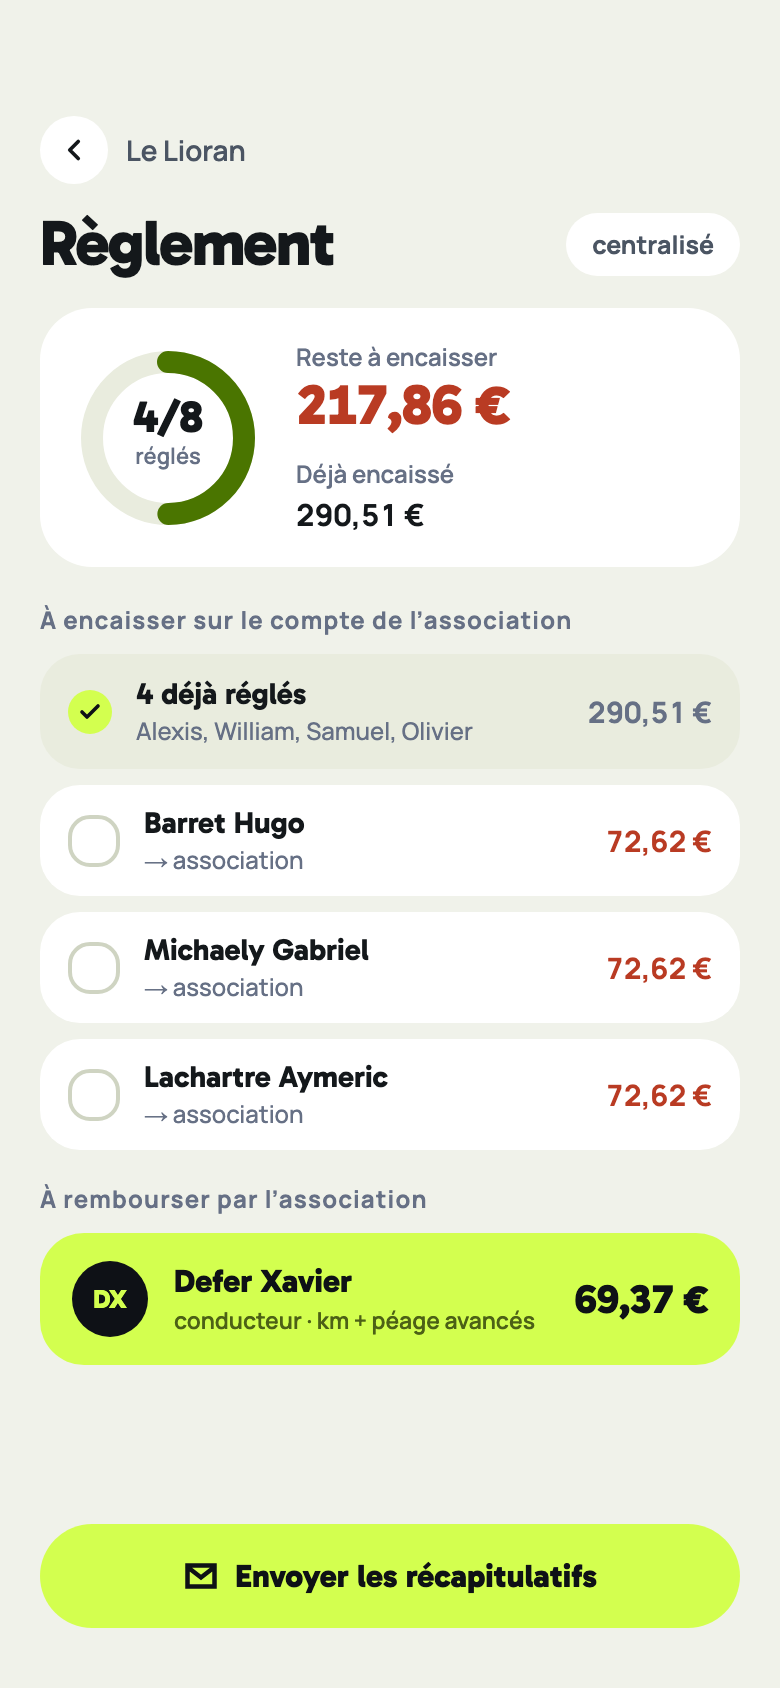
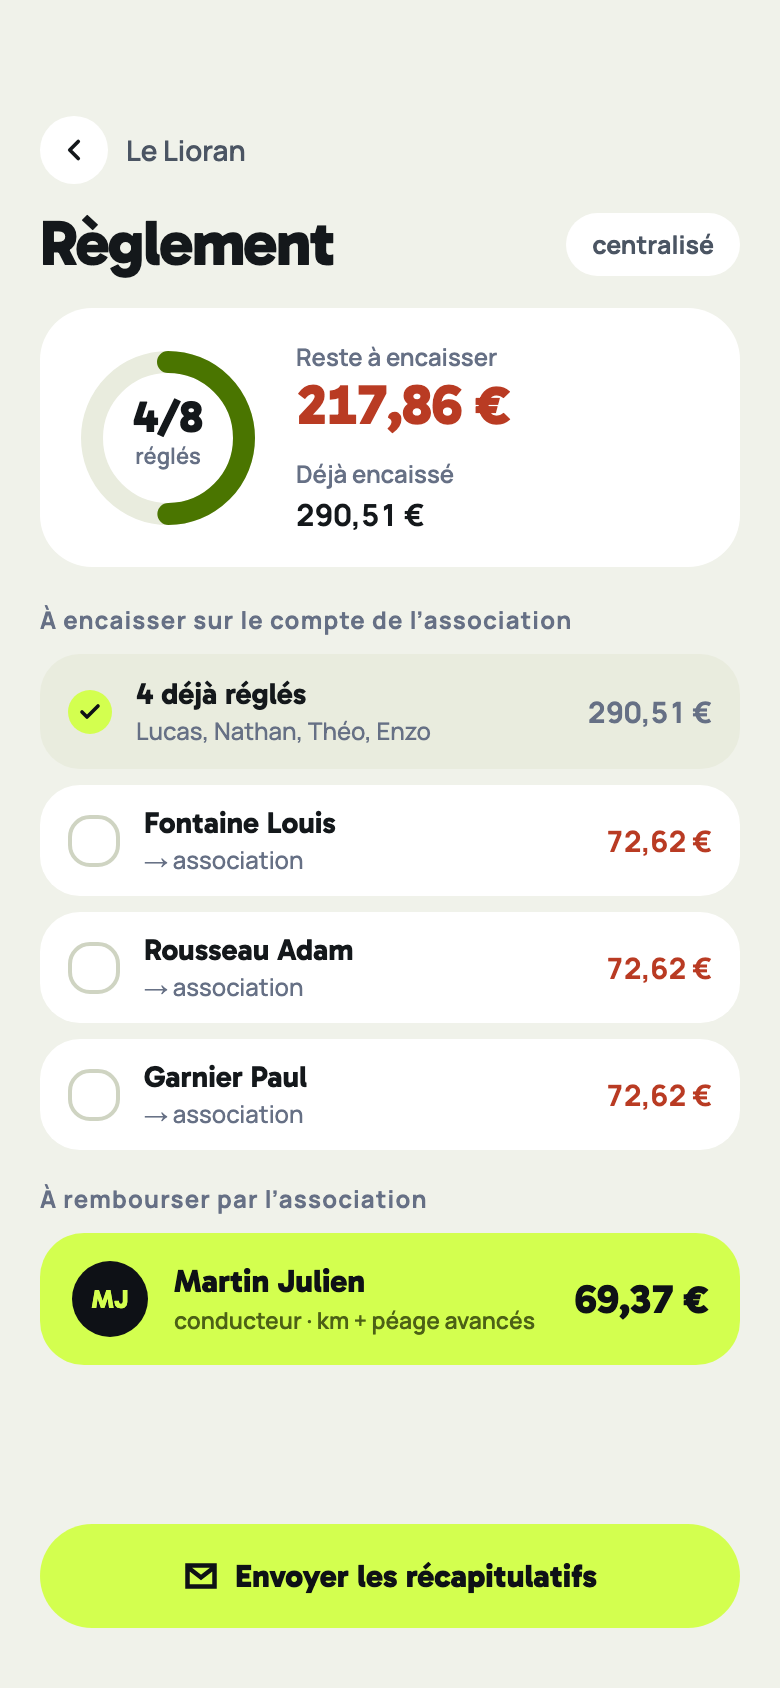
Écrans Teamago : personnes et club remplacés par des équivalents fictifs au rendu
Le rendu impose aussi le thème clair : Chrome suivait l'apparence du Mac et
produisait des écrans sombres le soir.

Claude-Session: https://claude.ai/code/session_01W31mF3zoge8iYpUump6swm

diff --git a/docs/superpowers/plans/2026-09-10-refonte-braise.md b/docs/superpowers/plans/2026-09-10-refonte-braise.md
@@ -588,6 +588,8 @@ for (const [projet, dossier] of Object.entries(SOURCES)) {
   if (filtre.length && !filtre.includes(projet)) continue;
 ```
 
+Ajout fait à l'exécution : option Chrome `--blink-settings=preferredColorScheme=1` dans `photographier`, sinon le rendu suit l'apparence du Mac (écrans sombres le soir).
+
 - [ ] **Step 6: Régénérer et contrôler**
 
 Run: `npm run ecrans -- teamago`
